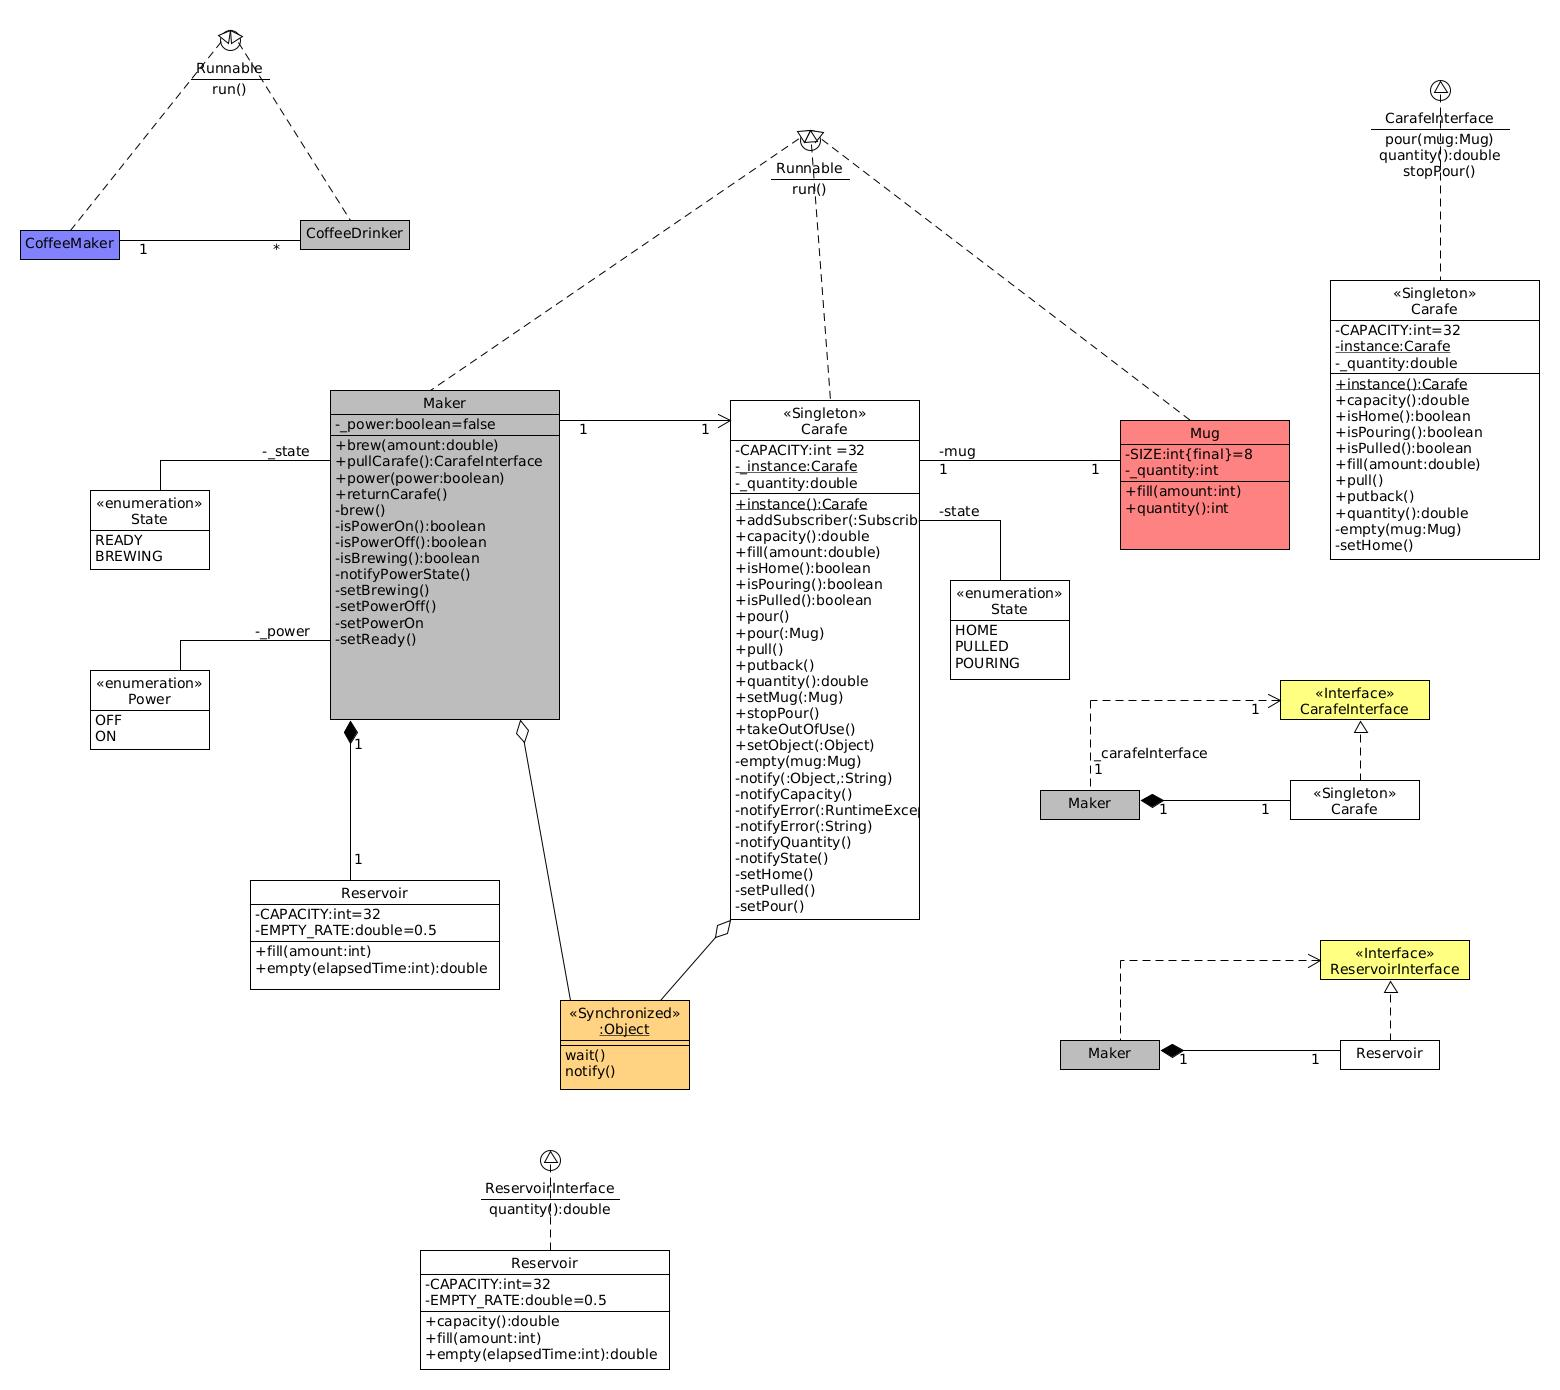
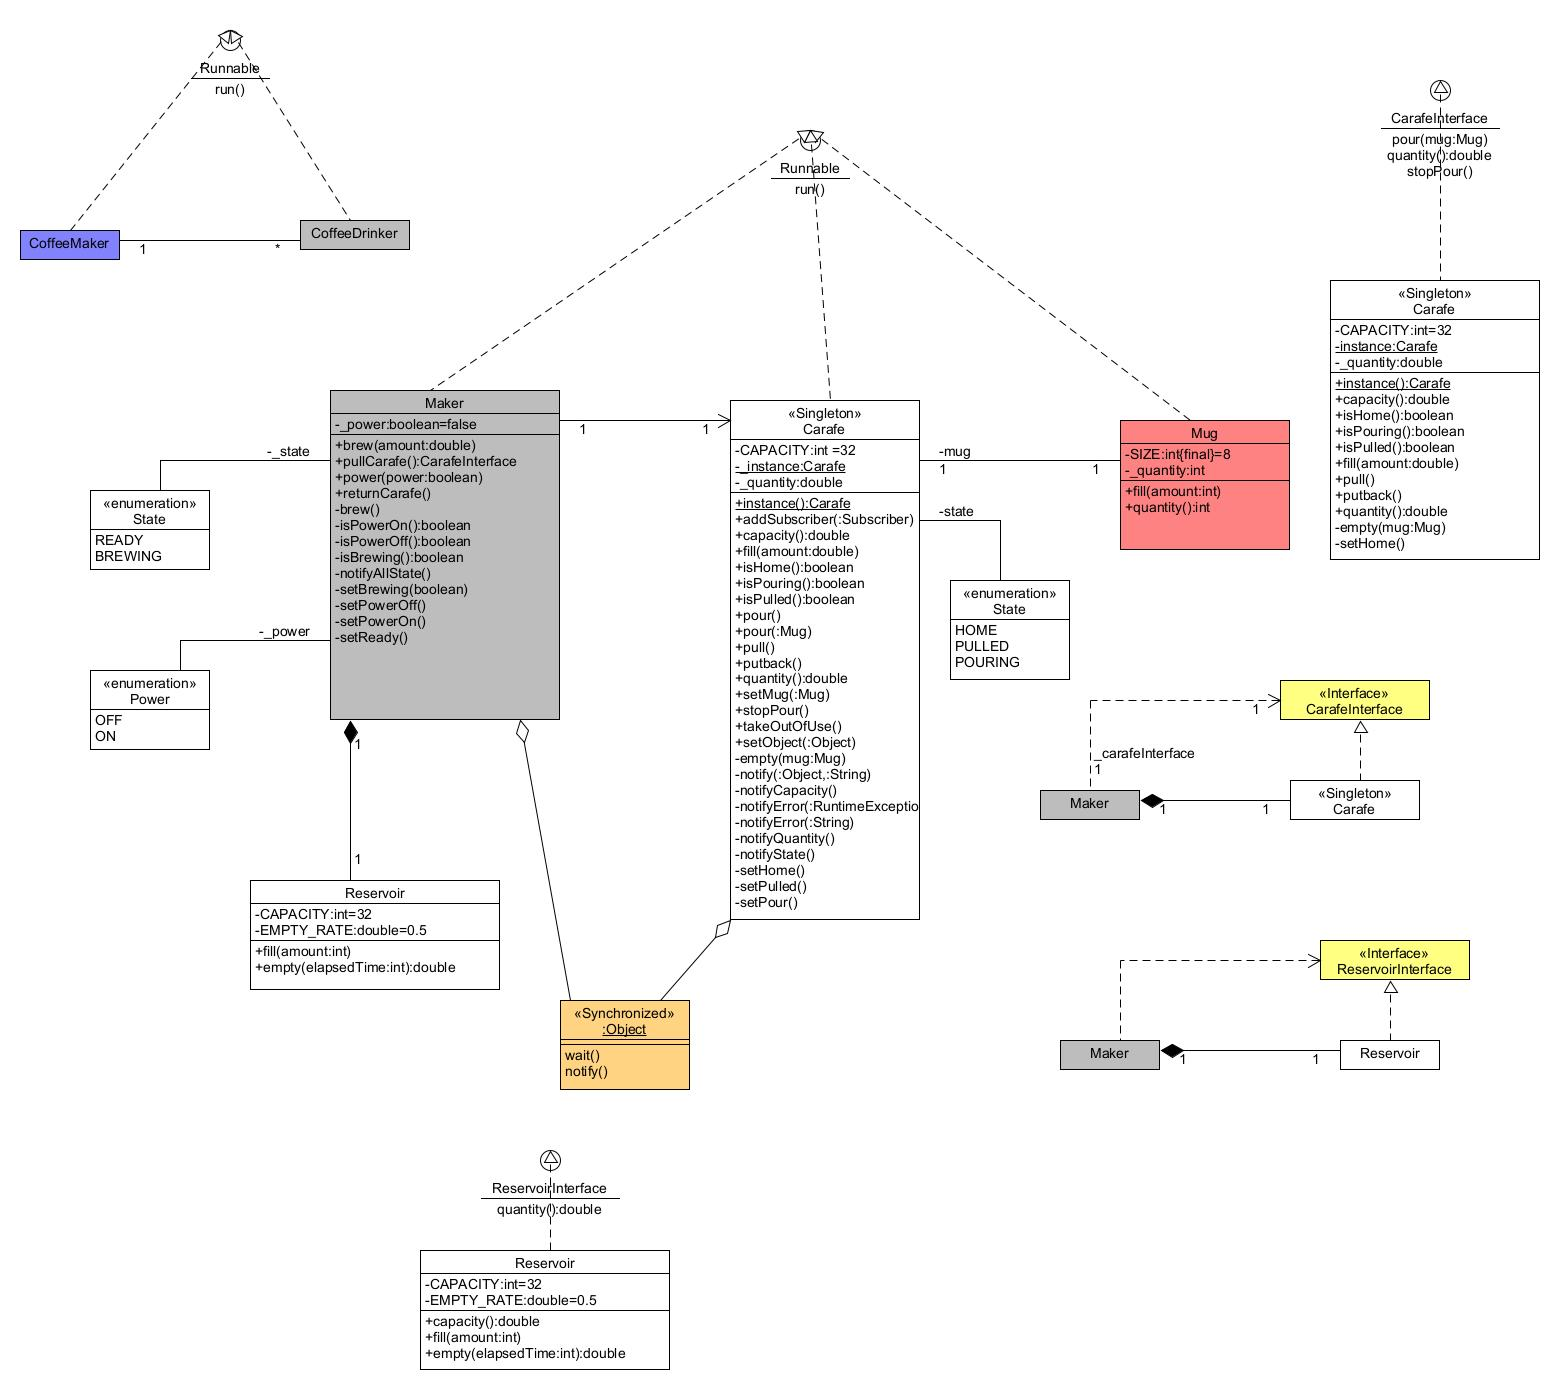
09-19-23-03

diff --git a/Maker.java b/Maker.java
@@ -16,6 +16,7 @@ public class Maker implements Runnable{
    private Reservoir        _reservoir;
    private Thread           _t;
    private State            _state;
+   private Power            _power;
    //Temporary for the moment
    private Object           _o;
 
@@ -25,6 +26,7 @@ public class Maker implements Runnable{
       _reservoir   = null;
       _t           = null;
       _state       = State.READY;
+      _power       = Power.OFF;
       _o           = null;
    };
    
@@ -56,7 +58,7 @@ public class Maker implements Runnable{
       //subject to change...
       if(!this.isBrewing()){
          //Set the State to State.BREWING
-         this.setBrewing();
+         this.setBrewing(true);
       }
       else{
          this.notifyError(new AlreadyBrewingException());
@@ -98,7 +100,7 @@ public class Maker implements Runnable{
       String powerState  = new String("Power: ");
       //Always set the System to ready...
       //Power on/off will determine what is next..
-      this.setReady();
+      this.setReady(false);
       //Need to get the Carafe and check on the state...
       if(Carafe.instance().isHome()){
          carafeState = carafeState.concat("Home");
@@ -209,19 +211,23 @@ public class Maker implements Runnable{
    //
    //
    //
-   private void setBrewing(){
+   private void setBrewing(boolean toNotify){
       this._state = State.BREWING;
       //Notify Observers of State Change
-      this.notifyOfState();
+      if(toNotify){
+         this.notifyOfState();
+      }
    }
 
    //
    //
    //
-   private void setReady(){
+   private void setReady(boolean toNotify){
       this._state = State.READY;
-      //Notfiy Observers of State Change
-      this.notifyOfState();
+      if(toNotify){
+         //Notfiy Observers of State Change
+         this.notifyOfState();
+      }
    }
 
    //////////////////////Interface Methods////////////////////////////
@@ -255,7 +261,7 @@ public class Maker implements Runnable{
                             this._reservoir.empty(reservoirSleepTime);
                   }
                }
-               this.setReady();
+               this.setReady(true);
             }
             Thread.sleep(sleepTime);
          }
